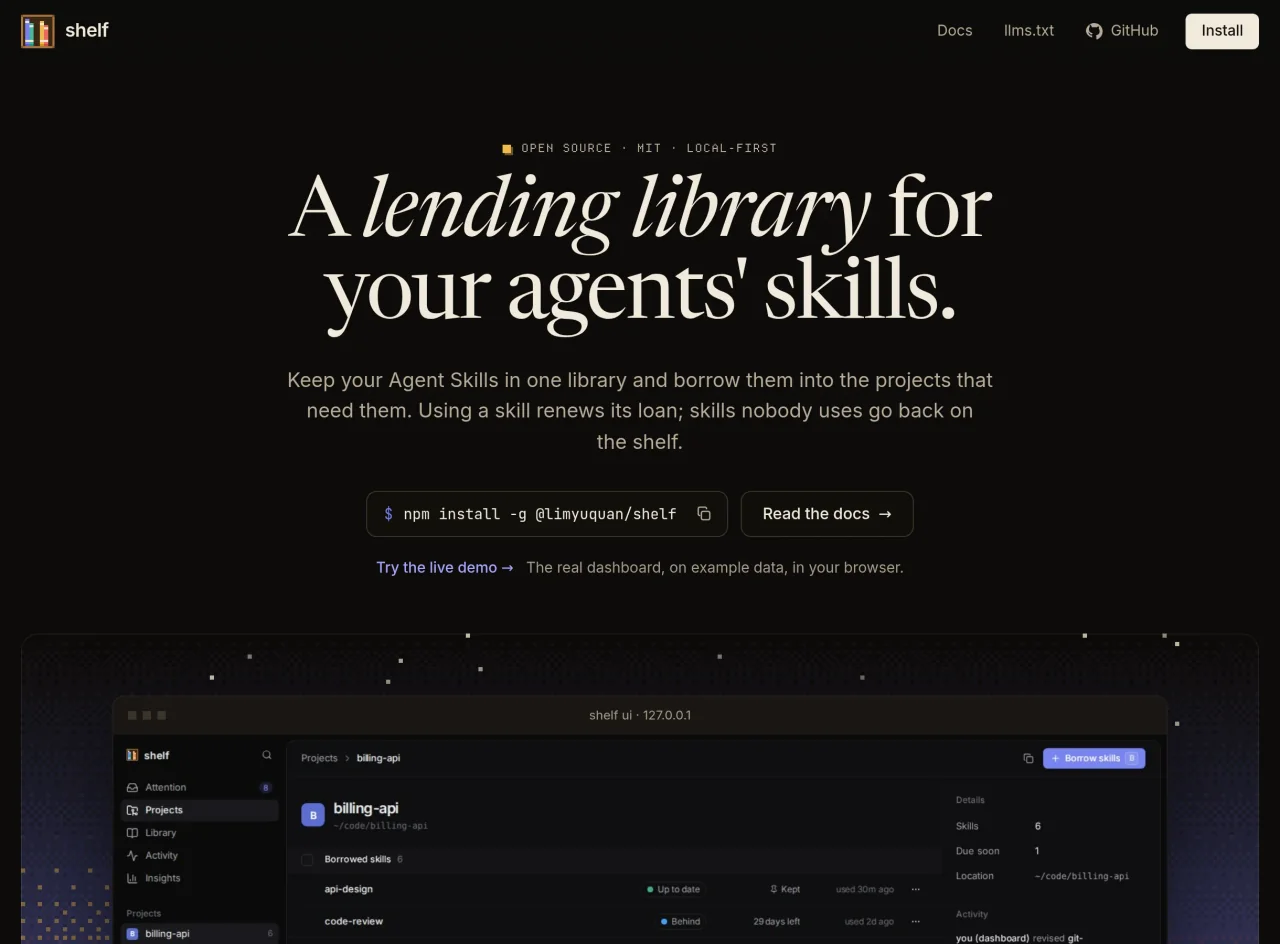
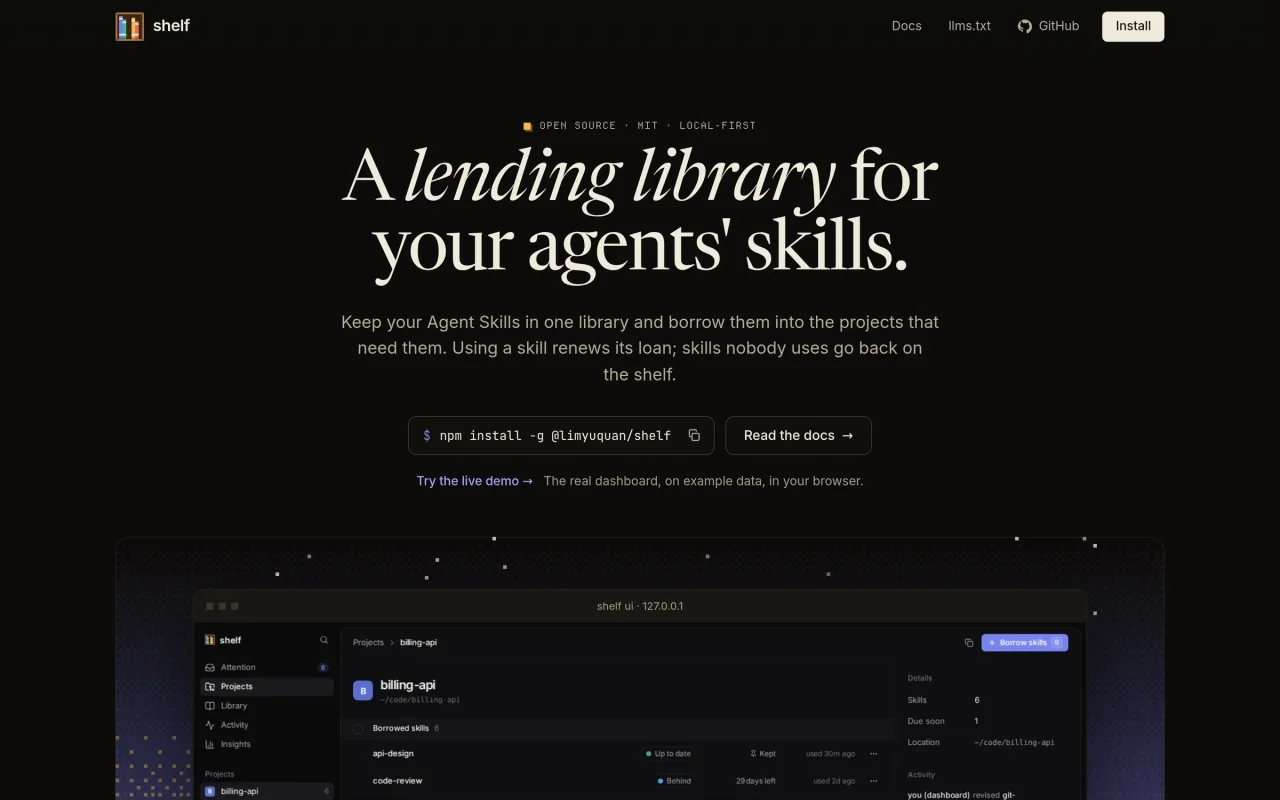
Revert the shelf landing screenshot crop
Restore the full-width capture; the side margins are part of the page.

diff --git a/docs/project-refresh.md b/docs/project-refresh.md
@@ -28,7 +28,7 @@ All product images are real browser screenshots exported to WebP. The refreshed 
 | `multitwitch-setup`, `multitwitch-watch`             | Live site, with xQc and ESLCS selected in an isolated browser session. Real live preview thumbnails and Twitch embeds; streams were played and no chat messages were sent.                                                                                                                                                                  |
 | `seatmap-populated-v2`, `seatmap-neighbours-v2`      | Live frontend with browser-only Convex response fixtures: 42 fictional claimed seats, generic nicknames, and sample freebie notes. The main view starts cleanly at the map controls rather than halfway through the concert heading. No real contact details and no production claims or writes.                                            |
 | `calendar-month-v2`, `calendar-event-v2`             | Live `https://nayacalendar.com/`, navigated to June 2026 to show an existing, populated schedule. Browser timezone: Asia/Singapore; browser clock: 1 June 2026, so upcoming events retain their actual active styling instead of the past-event dimming. The close-up shows the real Set The Tempo Comeback modal at a 1000 × 625 viewport. |
-| `shelf-home`                                         | The live landing page above the fold at 1440 × 900 (2×), cropped to the page content width so the empty side margins do not show.                                                                                                                                                                                                           |
+| `shelf-home`                                         | The live landing page above the fold at 1440 × 900 (2×).                                                                                                                                                                                                                                                                                    |
 | `shelf-attention`, `shelf-project`, `shelf-insights` | The repository's published dashboard media (`assets/media/dashboard.png`, `project.png`, `insights.png`), which use the project's example data.                                                                                                                                                                                             |
 | `planner-home`                                       | The landing page above the fold at 1440 × 900 (2×), with the hero's live demo running. The site and its in-memory demo were built from the public repository (`npm run build:demo`) and served locally because the headless browser could not reach github.io; the content is identical to the published page.                              |
 | `planner-panes`, `planner-settings`, `planner-recap` | The repository's own published landing-page media (`site/media/hero.png`, `settings.jpg`, `page-recap-chart.jpg`): three split panes of the demo plans, the settings dialog with its live preview, and an agent-written recap page. They show the repository's sample docs, not work documents.                                             |
